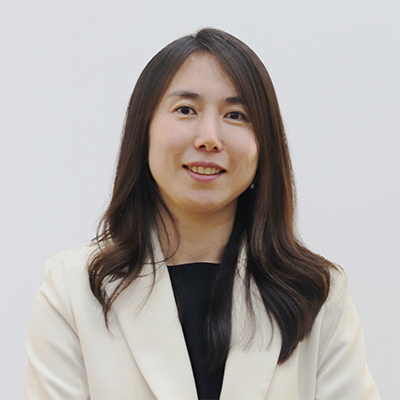
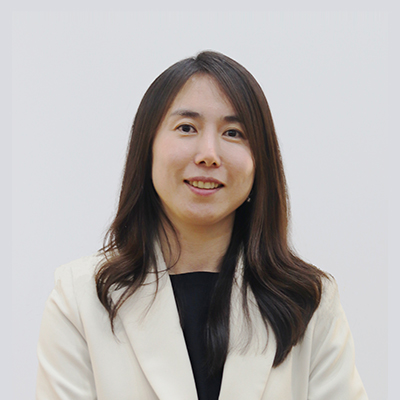
about carousel added

diff --git a/_includes/carousel_site.html b/_includes/carousel_site.html
@@ -1,0 +1,51 @@
+<div
+  id="{{ site.data.sitetext[site.locale].about.carousel.id }}"
+  class="carousel slide mb-3"
+  data-ride="carousel"
+>
+  <ol class="carousel-indicators">
+    {% for item in site.data.sitetext[site.locale].about.carousel.images %} {%
+    if forloop.index0 < 1 %}
+    <li
+      data-target="#{{ site.data.sitetext[site.locale].about.carousel.id }}"
+      data-slide-to="0"
+      class="active"
+    ></li>
+    {% else %}
+    <li
+      data-target="#{{ site.data.sitetext[site.locale].about.carousel.id }}"
+      data-slide-to="{{ forloop.index0 }}"
+    ></li>
+    {% endif %} {% endfor %}
+  </ol>
+  <div class="carousel-inner">
+    {% for item in site.data.sitetext[site.locale].about.carousel.images %} {%
+    if forloop.index0 == 0 %}
+    <div class="carousel-item active">
+      <img src="{{ item.image }}" class="d-block w-100 mb-0" alt="" />
+    </div>
+    {% else %}
+    <div class="carousel-item">
+      <img src="{{ item.image }}" class="d-block w-100 mb-0" alt="" />
+    </div>
+    {% endif %} {% endfor %}
+  </div>
+  <a
+    class="carousel-control-prev"
+    data-target="#{{ site.data.sitetext[site.locale].about.carousel.id }}"
+    role="button"
+    data-slide="prev"
+  >
+    <span class="carousel-control-prev-icon" aria-hidden="true"></span>
+    <span class="sr-only">Previous</span>
+  </a>
+  <a
+    class="carousel-control-next"
+    data-target="#{{ site.data.sitetext[site.locale].about.carousel.id }}"
+    role="button"
+    data-slide="next"
+  >
+    <span class="carousel-control-next-icon" aria-hidden="true"></span>
+    <span class="sr-only">Next</span>
+  </a>
+</div>

diff --git a/_includes/about.html b/_includes/about.html
@@ -5,12 +5,13 @@
     <div class="row">
       <div class="col-lg-12 text-center">
         <h2 class="section-heading text-uppercase">{{ site.data.sitetext[site.locale].about.title | default: "About Us" }}</h2>
-        <h3 class="section-subheading text-muted">{{ site.data.sitetext[site.locale].about.text | default: "" }}</h3>
+        <h3 class="section-subheading text-muted mb-5">{{ site.data.sitetext[site.locale].about.text | default: "" }}</h3>
       </div>
     </div>
     <div class="row">
+      {% include carousel_site.html %}
       <div class="col-lg-8 mx-auto text-center">
-        <img class="img-fluid mb-3" src="{{ site.data.sitetext[site.locale].about.image }}" alt="단체사진">
+        <!-- <img class="img-fluid mb-3" src="{{ site.data.sitetext[site.locale].about.image }}" alt="단체사진"> -->
         <div class="large text-muted">{{ site.data.sitetext[site.locale].about.body | markdownify }}</div>
       </div>
     </div>
